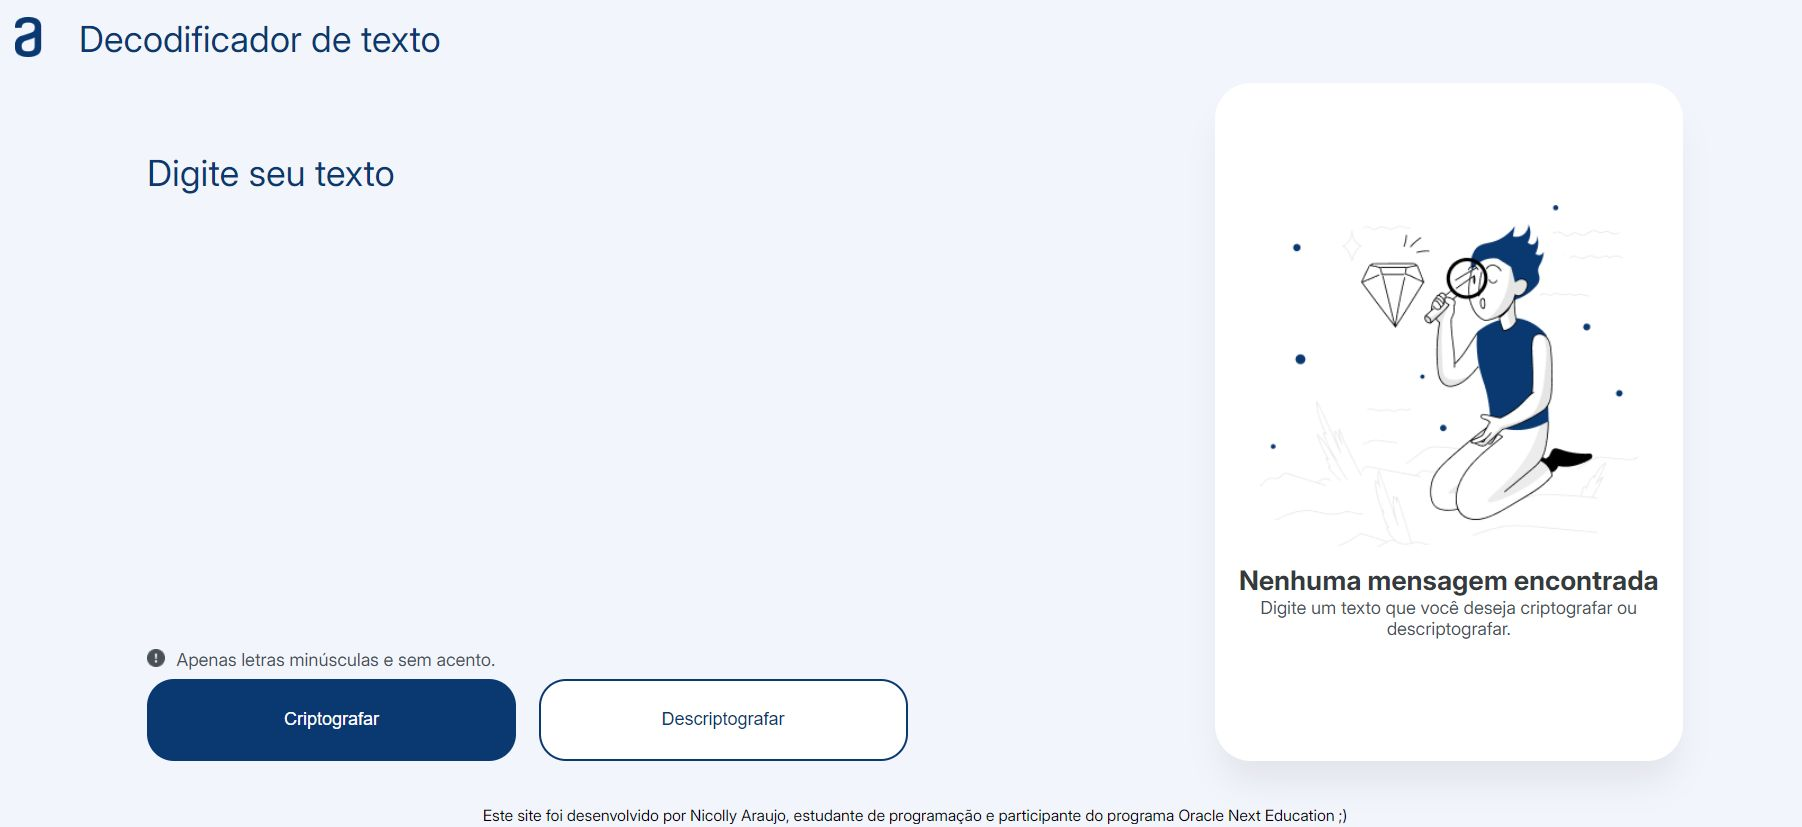
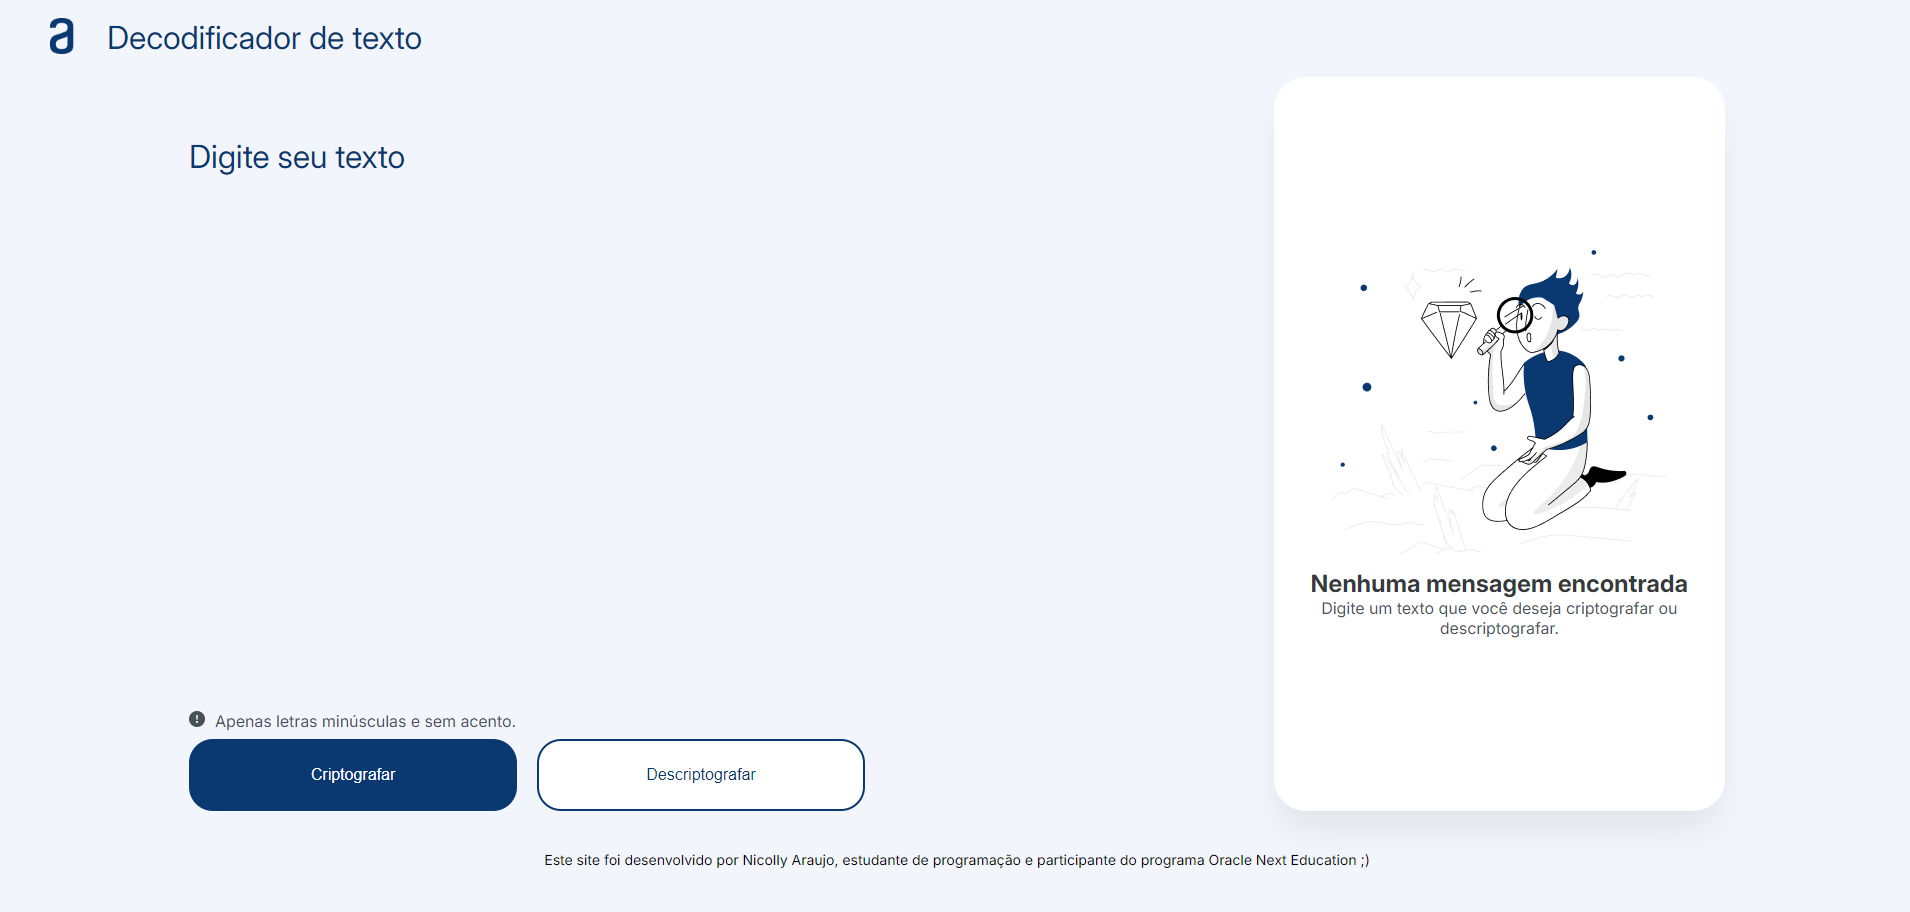
Add files via upload

diff --git a/portfolio/style.css b/portfolio/style.css
@@ -42,18 +42,22 @@ a {
     font-size: 1.2rem;
     text-align: left;
     color: #ffdfbf;
-    margin-left: 1rem; /* Adiciona espaço entre o logo e o título */
+    padding-left: 1rem; /* Adiciona espaço entre o logo e o título */
 }
 
 .navegacao{
     width: 100%;
+    margin: 0;
 }
 
 .navegacao__lista {
+   white-space: nowrap;
    display: flex;
-   gap: 32px;
+   flex-direction: row;
+   gap: 35px;
+   padding-right: 6000px;
+   margin: 0;
 }
-
 /* ------------------------------ Seção Apresentação ------------------------------*/
 .apresentacao{
     display: flex;
@@ -247,16 +251,14 @@ a {
     display: flex;
     flex-direction: row;
     align-items: center;
+    gap: 20px;
 
 }
 
-.projetos__elemento1{
-    width: 100px;
+.projetos__icone{
+    width: 40rem;
 }
 
-.projetos__elemento2{
-    width: 1px;
-}
 /*------------------------------ Seção de Contato ---------------------------------*/
 
 .contato{
@@ -311,15 +313,15 @@ a {
 
     .cabecalho__titulo {
         font-size: 1.5rem;
-        margin-left: 3rem;
+        padding-left: 3rem;
     }
 
     .navegacao__lista {
         display: flex;
         flex-direction: row;
         gap: 0.9rem;
-        margin-top: 0;
-        margin-left: 40rem;
+        padding-top: 0;
+        padding-left: 40rem;
     }
 
     .navegacao__elemento a {

diff --git a/portfolio/index.html b/portfolio/index.html
@@ -114,10 +114,10 @@
             <h3 class="projetos__nome">Decodificador de texto</h3>
             <ul class="projetos__lista">
                 <li class="projetos__elemento1"></li>
-                    <img class="projetos_icone" src="assets/decodificador.png" alt="Decodificador sem texto">
+                    <img class="projetos__icone" src="assets/decodificador.png" alt="Decodificador sem texto">
                 </li>
                 <li class="projetos__elemento2"></li>
-                    <img class="projetos_icone" src="assets/decodificador2.png" alt="Decodificador sem texto">
+                    <img class="projetos__icone" src="assets/decodificador2.png" alt="Decodificador com texto">
                 </li>
              </ul>
         </div>
